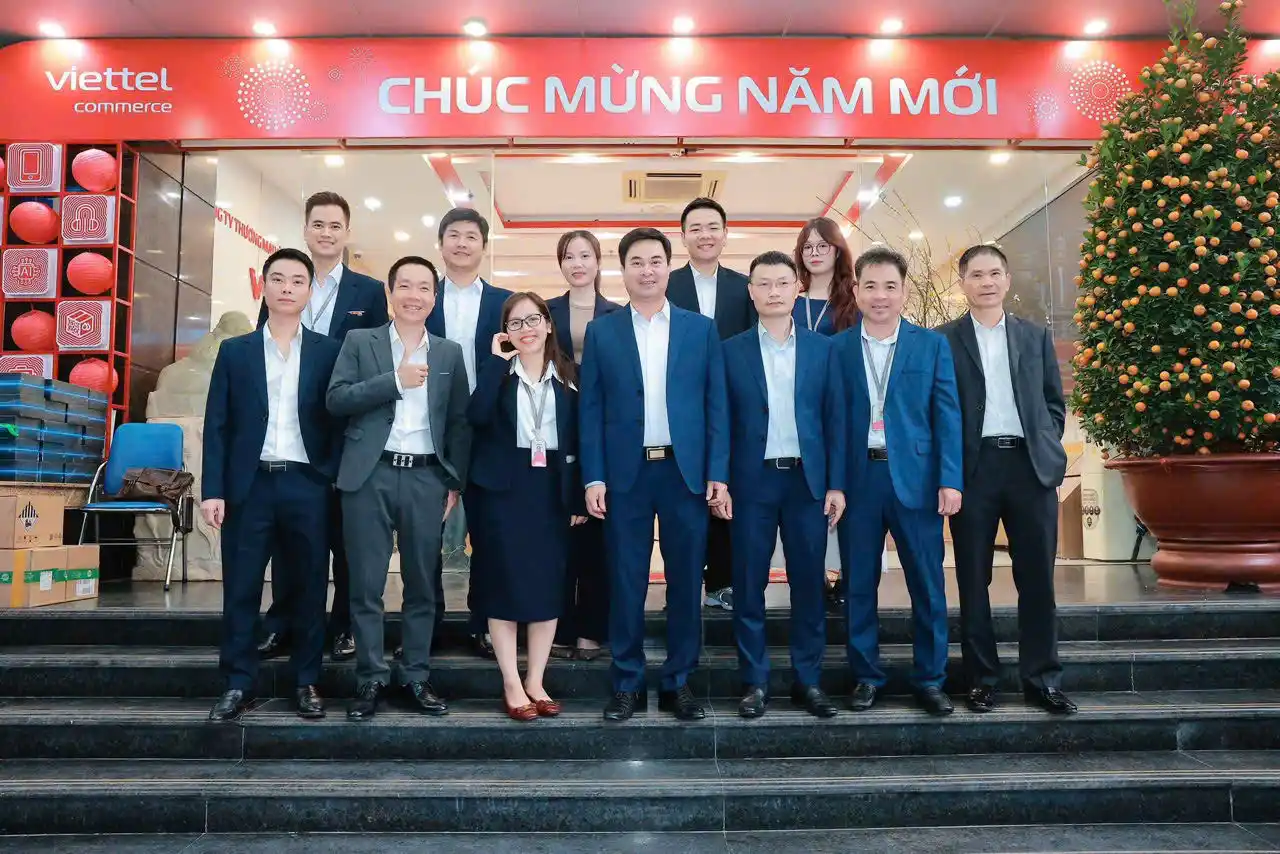
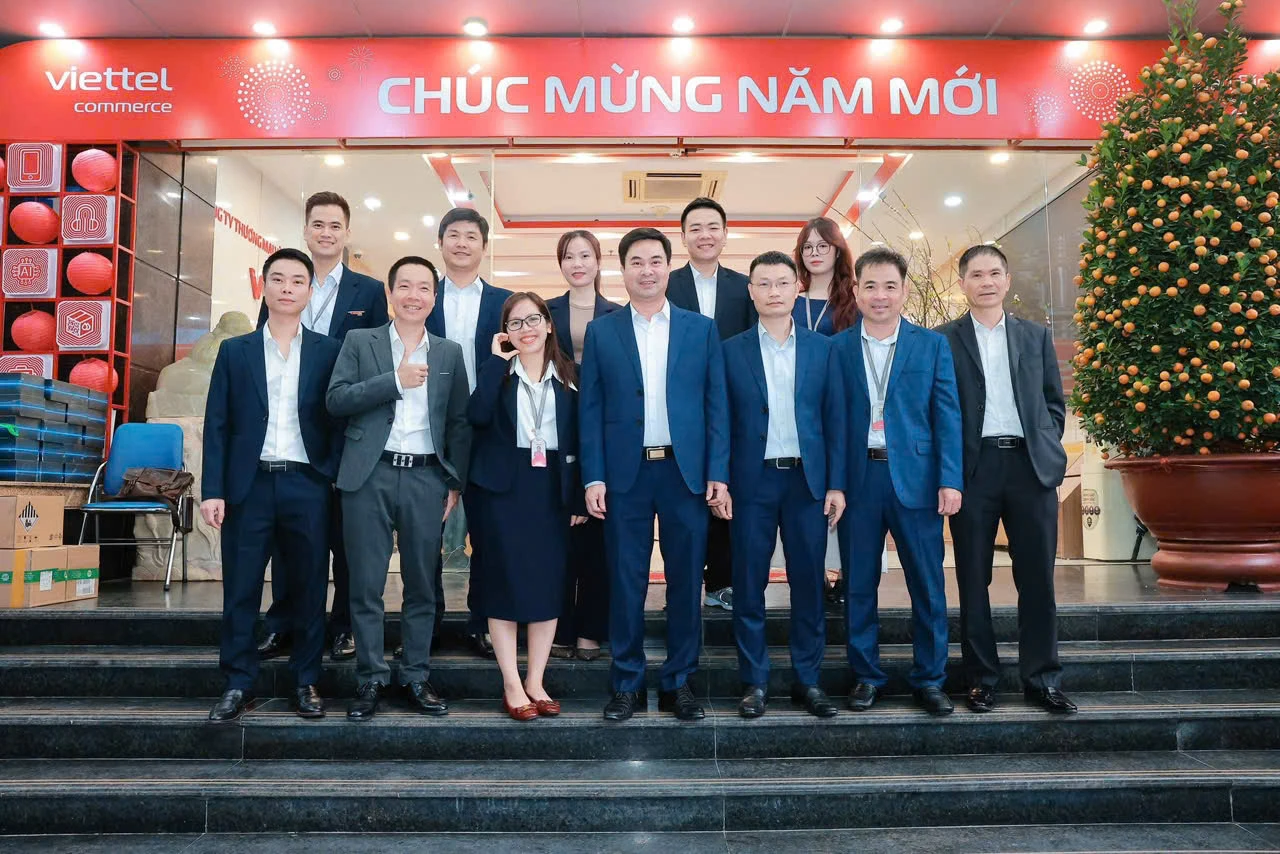
Optimize image quality, fix mobile hydration bugs, and update high-res department photos

diff --git a/frontend/src/app/con-nguoi/components/DepartmentModal.tsx b/frontend/src/app/con-nguoi/components/DepartmentModal.tsx
@@ -55,7 +55,7 @@ const DepartmentModal = ({ dept, onClose, hideComradeLabel }: DepartmentModalPro
                     <div className="flex flex-col gap-4 w-full px-4">
                       {dept.details.mainItems.map((item, i) => (
                         <div key={i} className="relative aspect-[4/3] rounded-2xl overflow-hidden border border-white/10 shadow-lg">
-                          <Image quality={75} src={encodeURI(item.img)} fill sizes="100vw" className="object-cover" alt="" />
+                          <Image unoptimized src={encodeURI(item.img)} fill sizes="100vw" className="object-cover" alt="" />
                         </div>
                       ))}
                     </div>
@@ -63,7 +63,7 @@ const DepartmentModal = ({ dept, onClose, hideComradeLabel }: DepartmentModalPro
                     <div className="flex flex-col gap-4">
                       {dept.details.mainItems.map((item, i) => (
                         <div key={i} className="relative aspect-[16/10] rounded-2xl overflow-hidden border border-white/10">
-                          <Image quality={75} src={encodeURI(item.img)} fill sizes="100vw" className="object-cover" alt="" />
+                          <Image unoptimized src={encodeURI(item.img)} fill sizes="100vw" className="object-cover" alt="" />
                         </div>
                       ))}
                     </div>
@@ -73,7 +73,7 @@ const DepartmentModal = ({ dept, onClose, hideComradeLabel }: DepartmentModalPro
                       {dept.details.leader && (
                         <div className="flex flex-col items-center">
                           <div className="relative w-full aspect-[3/4] rounded-3xl overflow-hidden border border-white/10">
-                            <Image quality={75} src={encodeURI(dept.details.leader.img)} fill sizes="100vw" className="object-cover" style={{ objectPosition: dept.details.leader.objectPosition || 'center' }} alt="leader" />
+                            <Image unoptimized src={encodeURI(dept.details.leader.img)} fill sizes="100vw" className="object-cover" style={{ objectPosition: dept.details.leader.objectPosition || 'center' }} alt="leader" />
                           </div>
                           {!hideComradeLabel && (
                             <div className="mt-4 text-center">
@@ -88,7 +88,7 @@ const DepartmentModal = ({ dept, onClose, hideComradeLabel }: DepartmentModalPro
                       {!dept.details.leader && dept.details.deputies && dept.details.deputies.map((deputy, i) => (
                         <div key={`top-${i}`} className="flex flex-col items-center">
                           <div className="relative w-full aspect-[3/4] rounded-3xl overflow-hidden border border-white/10">
-                            <Image quality={75} src={encodeURI(deputy.img)} fill sizes="100vw" className="object-cover" style={{ objectPosition: deputy.objectPosition || 'center' }} alt="deputy" />
+                            <Image unoptimized src={encodeURI(deputy.img)} fill sizes="100vw" className="object-cover" style={{ objectPosition: deputy.objectPosition || 'center' }} alt="deputy" />
                           </div>
                           {!hideComradeLabel && (
                             <div className="mt-4 text-center">
@@ -103,7 +103,7 @@ const DepartmentModal = ({ dept, onClose, hideComradeLabel }: DepartmentModalPro
                       {dept.details.group && (
                         <div className="flex flex-col items-center">
                           <div className="relative w-full aspect-[16/10] rounded-3xl overflow-hidden border border-white/20">
-                            <Image quality={75} src={encodeURI(dept.details.group.img)} fill sizes="100vw" className="object-cover" alt="group" />
+                            <Image unoptimized src={encodeURI(dept.details.group.img)} fill sizes="100vw" className="object-cover" alt="group" />
                           </div>
                           <div className="mt-4 text-center">
                             <h3 className="text-white font-bold text-lg whitespace-pre-line">{dept.details.group.name}</h3>
@@ -115,7 +115,7 @@ const DepartmentModal = ({ dept, onClose, hideComradeLabel }: DepartmentModalPro
                       {dept.details.leader && dept.details.deputies && dept.details.deputies.map((deputy, i) => (
                         <div key={`bottom-${i}`} className="flex flex-col items-center">
                           <div className="relative w-full aspect-[3/4] rounded-3xl overflow-hidden border border-white/10">
-                            <Image quality={75} src={encodeURI(deputy.img)} fill sizes="100vw" className="object-cover" style={{ objectPosition: deputy.objectPosition || 'center' }} alt="deputy" />
+                            <Image unoptimized src={encodeURI(deputy.img)} fill sizes="100vw" className="object-cover" style={{ objectPosition: deputy.objectPosition || 'center' }} alt="deputy" />
                           </div>
                           {!hideComradeLabel && (
                             <div className="mt-4 text-center">
@@ -142,7 +142,7 @@ const DepartmentModal = ({ dept, onClose, hideComradeLabel }: DepartmentModalPro
                     {page.items.map((item, iIdx) => (
                       <div key={iIdx} className="flex flex-col items-center">
                         <div className="relative w-full aspect-[3/4] rounded-2xl overflow-hidden border border-white/10 shadow-lg">
-                          <Image quality={75} src={encodeURI(item.img)} fill sizes="100vw" className="object-cover" style={{ objectPosition: item.objectPosition || 'center' }} alt="" />
+                          <Image unoptimized src={encodeURI(item.img)} fill sizes="100vw" className="object-cover" style={{ objectPosition: item.objectPosition || 'center' }} alt="" />
                         </div>
                         {!hideComradeLabel && item.name && (
                           <div className="mt-4 text-center">
@@ -165,26 +165,26 @@ const DepartmentModal = ({ dept, onClose, hideComradeLabel }: DepartmentModalPro
                     <div className="grid grid-cols-2 gap-8 h-[min(620px,68vh)] max-w-[1000px] mx-auto w-full">
                       {dept.details.mainItems.slice(0, 4).map((item, i) => (
                         <div key={i} className="relative rounded-[2.5rem] overflow-hidden group border-2 border-white/10 shadow-2xl">
-                          <Image priority quality={75} src={encodeURI(item.img)} fill sizes="500px" className="object-cover transition-transform duration-1000 group-hover:scale-110" style={{ objectPosition: item.objectPosition || 'center', transform: item.scale ? `scale(${item.scale})` : 'none' }} alt="" />
+                          <Image priority unoptimized src={encodeURI(item.img)} fill sizes="500px" className="object-cover transition-transform duration-1000 group-hover:scale-110" style={{ objectPosition: item.objectPosition || 'center', transform: item.scale ? `scale(${item.scale})` : 'none' }} alt="" />
                         </div>
                       ))}
                     </div>
                   ) : dept.details.useCollageStaggered4 && dept.details.mainItems ? (
                     <div className="flex gap-8 w-full h-[min(620px,68vh)] max-w-[1200px] mx-auto">
                       <div className="relative flex-[1.8] rounded-[3rem] overflow-hidden border-2 border-white/10 shadow-2xl group">
-                        <Image priority quality={75} src={encodeURI(dept.details.mainItems[0].img)} fill sizes="800px" className="transition-transform duration-1000 group-hover:scale-105" style={{ objectPosition: dept.details.mainItems[0].objectPosition || 'center', objectFit: dept.details.mainItems[0].objectFit || 'cover', transform: `scale(${dept.details.mainItems[0].scale || 1}) scaleX(${dept.details.mainItems[0].scaleX || 1})` }} alt="" />
+                        <Image priority unoptimized src={encodeURI(dept.details.mainItems[0].img)} fill sizes="800px" className="transition-transform duration-1000 group-hover:scale-105" style={{ objectPosition: dept.details.mainItems[0].objectPosition || 'center', objectFit: dept.details.mainItems[0].objectFit || 'cover', transform: `scale(${dept.details.mainItems[0].scale || 1}) scaleX(${dept.details.mainItems[0].scaleX || 1})` }} alt="" />
                       </div>
                       <div className="flex-[1.2] flex flex-col gap-8">
                         <div className="flex-[0.4] flex gap-8">
                           <div className="relative flex-[0.8] rounded-[2.5rem] overflow-hidden border-2 border-white/10 shadow-xl group">
-                            <Image priority quality={75} src={encodeURI(dept.details.mainItems[1].img)} fill sizes="400px" className="object-cover transition-transform duration-1000 group-hover:scale-105" style={{ objectPosition: dept.details.mainItems[1].objectPosition || 'center', transform: dept.details.mainItems[1].scale ? `scale(${dept.details.mainItems[1].scale})` : 'none' }} alt="" />
+                            <Image priority unoptimized src={encodeURI(dept.details.mainItems[1].img)} fill sizes="400px" className="object-cover transition-transform duration-1000 group-hover:scale-105" style={{ objectPosition: dept.details.mainItems[1].objectPosition || 'center', transform: dept.details.mainItems[1].scale ? `scale(${dept.details.mainItems[1].scale})` : 'none' }} alt="" />
                           </div>
                           <div className="relative flex-[1.2] rounded-[2.5rem] overflow-hidden border-2 border-white/10 shadow-xl group">
-                            <Image priority quality={75} src={encodeURI(dept.details.mainItems[2].img)} fill sizes="600px" className="object-cover transition-transform duration-1000 group-hover:scale-105" style={{ objectPosition: dept.details.mainItems[2].objectPosition || 'center', transform: dept.details.mainItems[2].scale ? `scale(${dept.details.mainItems[2].scale})` : 'none' }} alt="" />
+                            <Image priority unoptimized src={encodeURI(dept.details.mainItems[2].img)} fill sizes="600px" className="object-cover transition-transform duration-1000 group-hover:scale-105" style={{ objectPosition: dept.details.mainItems[2].objectPosition || 'center', transform: dept.details.mainItems[2].scale ? `scale(${dept.details.mainItems[2].scale})` : 'none' }} alt="" />
                           </div>
                         </div>
                         <div className="relative flex-[0.6] rounded-[3rem] overflow-hidden border-2 border-white/10 shadow-xl group">
-                          <Image priority quality={75} src={encodeURI(dept.details.mainItems[3].img)} fill sizes="800px" className="object-cover transition-transform duration-1000 group-hover:scale-105" style={{ objectPosition: dept.details.mainItems[3].objectPosition || 'center', transform: dept.details.mainItems[3].scale ? `scale(${dept.details.mainItems[3].scale})` : 'none' }} alt="" />
+                          <Image priority unoptimized src={encodeURI(dept.details.mainItems[3].img)} fill sizes="800px" className="object-cover transition-transform duration-1000 group-hover:scale-105" style={{ objectPosition: dept.details.mainItems[3].objectPosition || 'center', transform: dept.details.mainItems[3].scale ? `scale(${dept.details.mainItems[3].scale})` : 'none' }} alt="" />
                         </div>
                       </div>
                     </div>
@@ -192,24 +192,24 @@ const DepartmentModal = ({ dept, onClose, hideComradeLabel }: DepartmentModalPro
                     <div className="w-full space-y-2">
                       <div className="flex gap-2 h-[min(300px,32vh)]">
                         <div className="relative flex-[1.6] rounded-[2.5rem] overflow-hidden group border-2 border-white/10 shadow-2xl">
-                          <Image priority quality={75} src={encodeURI(dept.details.mainItems[0].img)} fill sizes="800px" className="object-cover transition-transform duration-1000 group-hover:scale-105" style={{ objectPosition: dept.details.mainItems[0].objectPosition || 'center', transform: dept.details.mainItems[0].scale ? `scale(${dept.details.mainItems[0].scale})` : 'none' }} alt="" />
+                          <Image priority unoptimized src={encodeURI(dept.details.mainItems[0].img)} fill sizes="800px" className="object-cover transition-transform duration-1000 group-hover:scale-105" style={{ objectPosition: dept.details.mainItems[0].objectPosition || 'center', transform: dept.details.mainItems[0].scale ? `scale(${dept.details.mainItems[0].scale})` : 'none' }} alt="" />
                         </div>
                         <div className="relative flex-[0.8] rounded-[2.5rem] overflow-hidden group border-2 border-white/10 shadow-2xl">
-                          <Image priority quality={75} src={encodeURI(dept.details.mainItems[1].img)} fill sizes="400px" className="object-cover transition-transform duration-1000 group-hover:scale-105" style={{ objectPosition: dept.details.mainItems[1].objectPosition || 'center', transform: dept.details.mainItems[1].scale ? `scale(${dept.details.mainItems[1].scale})` : 'none' }} alt="" />
+                          <Image priority unoptimized src={encodeURI(dept.details.mainItems[1].img)} fill sizes="400px" className="object-cover transition-transform duration-1000 group-hover:scale-105" style={{ objectPosition: dept.details.mainItems[1].objectPosition || 'center', transform: dept.details.mainItems[1].scale ? `scale(${dept.details.mainItems[1].scale})` : 'none' }} alt="" />
                         </div>
                         <div className="relative flex-[1.2] rounded-[2.5rem] overflow-hidden group border-2 border-white/10 shadow-2xl">
-                          <Image priority quality={75} src={encodeURI(dept.details.mainItems[2].img)} fill sizes="600px" className="object-cover transition-transform duration-1000 group-hover:scale-105" style={{ objectPosition: dept.details.mainItems[2].objectPosition || 'center', transform: dept.details.mainItems[2].scale ? `scale(${dept.details.mainItems[2].scale})` : 'none' }} alt="" />
+                          <Image priority unoptimized src={encodeURI(dept.details.mainItems[2].img)} fill sizes="600px" className="object-cover transition-transform duration-1000 group-hover:scale-105" style={{ objectPosition: dept.details.mainItems[2].objectPosition || 'center', transform: dept.details.mainItems[2].scale ? `scale(${dept.details.mainItems[2].scale})` : 'none' }} alt="" />
                         </div>
                       </div>
                       <div className="flex gap-2 h-[min(300px,32vh)]">
                         <div className="relative flex-[1] rounded-[2.5rem] overflow-hidden group border-2 border-white/10 shadow-2xl">
-                          <Image priority quality={75} src={encodeURI(dept.details.mainItems[3].img)} fill sizes="500px" className="object-cover transition-transform duration-1000 group-hover:scale-105" style={{ objectPosition: dept.details.mainItems[3].objectPosition || 'center', transform: dept.details.mainItems[3].scale ? `scale(${dept.details.mainItems[3].scale})` : 'none' }} alt="" />
+                          <Image priority unoptimized src={encodeURI(dept.details.mainItems[3].img)} fill sizes="500px" className="object-cover transition-transform duration-1000 group-hover:scale-105" style={{ objectPosition: dept.details.mainItems[3].objectPosition || 'center', transform: dept.details.mainItems[3].scale ? `scale(${dept.details.mainItems[3].scale})` : 'none' }} alt="" />
                         </div>
                         <div className="relative flex-[1.4] rounded-[2.5rem] overflow-hidden group border-2 border-white/10 shadow-2xl">
-                          <Image priority quality={75} src={encodeURI(dept.details.mainItems[4].img)} fill sizes="700px" className="object-cover transition-transform duration-1000 group-hover:scale-105" style={{ objectPosition: dept.details.mainItems[4].objectPosition || 'center', transform: dept.details.mainItems[4].scale ? `scale(${dept.details.mainItems[4].scale})` : 'none' }} alt="" />
+                          <Image priority unoptimized src={encodeURI(dept.details.mainItems[4].img)} fill sizes="700px" className="object-cover transition-transform duration-1000 group-hover:scale-105" style={{ objectPosition: dept.details.mainItems[4].objectPosition || 'center', transform: dept.details.mainItems[4].scale ? `scale(${dept.details.mainItems[4].scale})` : 'none' }} alt="" />
                         </div>
                         <div className="relative flex-[1.4] rounded-[2.5rem] overflow-hidden group border-2 border-white/10 shadow-2xl">
-                          <Image priority quality={75} src={encodeURI(dept.details.mainItems[5].img)} fill sizes="700px" className="object-cover transition-transform duration-1000 group-hover:scale-105" style={{ objectPosition: dept.details.mainItems[5].objectPosition || 'center', transform: dept.details.mainItems[5].scale ? `scale(${dept.details.mainItems[5].scale})` : 'none' }} alt="" />
+                          <Image priority unoptimized src={encodeURI(dept.details.mainItems[5].img)} fill sizes="700px" className="object-cover transition-transform duration-1000 group-hover:scale-105" style={{ objectPosition: dept.details.mainItems[5].objectPosition || 'center', transform: dept.details.mainItems[5].scale ? `scale(${dept.details.mainItems[5].scale})` : 'none' }} alt="" />
                         </div>
                       </div>
                     </div>
@@ -219,7 +219,7 @@ const DepartmentModal = ({ dept, onClose, hideComradeLabel }: DepartmentModalPro
                       {dept.details.leader && (
                         <div className="w-[300px] xl:w-[350px] shrink-0 flex flex-col justify-between group">
                           <div className="relative w-full h-[min(450px,50vh)] xl:h-[min(550px,60vh)] rounded-[2.5rem] overflow-hidden border-2 border-white/10 group-hover:border-[#EE0033]/50 transition-all duration-500 shadow-2xl">
-                            <Image quality={75} src={encodeURI(dept.details.leader.img)} fill sizes="350px" className="object-cover" style={{ objectPosition: dept.details.leader.objectPosition || 'center' }} alt="leader" />
+                            <Image unoptimized src={encodeURI(dept.details.leader.img)} fill sizes="350px" className="object-cover" style={{ objectPosition: dept.details.leader.objectPosition || 'center' }} alt="leader" />
                           </div>
                           {!hideComradeLabel && (
                             <div className="mt-6 text-center">
@@ -234,7 +234,7 @@ const DepartmentModal = ({ dept, onClose, hideComradeLabel }: DepartmentModalPro
                       {dept.details.group && (
                         <div className={`flex flex-col items-center group ${(!dept.details.leader && (!dept.details.deputies || dept.details.deputies.length === 0)) ? 'w-full max-w-[1200px]' : 'flex-1 min-w-[300px]'}`}>
                           <div className={`relative w-full rounded-[3rem] overflow-hidden border-4 border-white/20 group-hover:border-white/40 transition-all duration-500 shadow-2xl ${(!dept.details.leader && (!dept.details.deputies || dept.details.deputies.length === 0)) ? 'h-[min(650px,75vh)]' : 'h-[min(450px,50vh)] xl:h-[min(550px,60vh)]'}`}>
-                            <Image priority quality={75} src={encodeURI(dept.details.group.img)} fill sizes="1200px" className={dept.details.group.objectFit === 'contain' ? 'object-contain' : 'object-cover'} style={{ objectPosition: dept.details.group.objectPosition || 'center' }} alt="group" />
+                            <Image priority unoptimized src={encodeURI(dept.details.group.img)} fill sizes="1200px" className={dept.details.group.objectFit === 'contain' ? 'object-contain' : 'object-cover'} style={{ objectPosition: dept.details.group.objectPosition || 'center' }} alt="group" />
                           </div>
                           <div className="mt-6 text-center">
                             <h3 className="text-white font-bold text-xl tracking-wide whitespace-pre-line">{dept.details.group.name}</h3>
@@ -264,7 +264,7 @@ const DepartmentModal = ({ dept, onClose, hideComradeLabel }: DepartmentModalPro
                                   </div>
                                 )}
                                 <div className={`relative w-full ${photoHeight} rounded-[2.5rem] overflow-hidden border-2 border-white/10 group-hover:border-[#EE0033]/50 transition-all duration-500 shadow-xl`}>
-                                  <Image quality={75} src={encodeURI(deputy.img)} fill sizes="350px" className="object-cover" style={{ objectPosition: deputy.objectPosition || 'center' }} alt="deputy" />
+                                  <Image unoptimized src={encodeURI(deputy.img)} fill sizes="350px" className="object-cover" style={{ objectPosition: deputy.objectPosition || 'center' }} alt="deputy" />
                                 </div>
                                 {!showNameAbove && !hideComradeLabel && (
                                   <div className="mt-4 text-center">
@@ -293,21 +293,21 @@ const DepartmentModal = ({ dept, onClose, hideComradeLabel }: DepartmentModalPro
                           <div className="flex gap-4 w-full h-[min(620px,68vh)] max-w-[1300px]">
                             {/* Left Column: 1 Large Image */}
                             <div className="relative flex-[1.8] rounded-[3rem] overflow-hidden border-2 border-white/10 shadow-2xl group">
-                              <Image quality={75} src={encodeURI(page.items[0].img)} fill sizes="800px" className="object-cover transition-transform duration-1000 group-hover:scale-105" style={{ objectPosition: page.items[0].objectPosition || 'center', transform: `scale(${page.items[0].scale || 1}) scaleX(${page.items[0].scaleX || 1})` }} alt="" />
+                              <Image unoptimized src={encodeURI(page.items[0].img)} fill sizes="800px" className="object-cover transition-transform duration-1000 group-hover:scale-105" style={{ objectPosition: page.items[0].objectPosition || 'center', transform: `scale(${page.items[0].scale || 1}) scaleX(${page.items[0].scaleX || 1})` }} alt="" />
                             </div>
                             
                             {/* Right Column: 3 Images staggered */}
                             <div className="flex-[1.2] flex flex-col gap-4">
                               <div className="flex-[0.4] flex gap-4">
                                 <div className="relative flex-[0.8] rounded-[2.5rem] overflow-hidden border-2 border-white/10 shadow-xl group">
-                                  <Image quality={75} src={encodeURI(page.items[1].img)} fill sizes="400px" className="object-cover transition-transform duration-1000 group-hover:scale-105" style={{ objectPosition: page.items[1].objectPosition || 'center', transform: page.items[1].scale ? `scale(${page.items[1].scale})` : 'none' }} alt="" />
+                                  <Image unoptimized src={encodeURI(page.items[1].img)} fill sizes="400px" className="object-cover transition-transform duration-1000 group-hover:scale-105" style={{ objectPosition: page.items[1].objectPosition || 'center', transform: page.items[1].scale ? `scale(${page.items[1].scale})` : 'none' }} alt="" />
                                 </div>
                                 <div className="relative flex-[1.2] rounded-[2.5rem] overflow-hidden border-2 border-white/10 shadow-xl group">
-                                  <Image quality={75} src={encodeURI(page.items[2].img)} fill sizes="600px" className="object-cover transition-transform duration-1000 group-hover:scale-105" style={{ objectPosition: page.items[2].objectPosition || 'center', transform: page.items[2].scale ? `scale(${page.items[2].scale})` : 'none' }} alt="" />
+                                  <Image unoptimized src={encodeURI(page.items[2].img)} fill sizes="600px" className="object-cover transition-transform duration-1000 group-hover:scale-105" style={{ objectPosition: page.items[2].objectPosition || 'center', transform: page.items[2].scale ? `scale(${page.items[2].scale})` : 'none' }} alt="" />
                                 </div>
                               </div>
                               <div className="relative flex-[0.6] rounded-[3rem] overflow-hidden border-2 border-white/10 shadow-xl group">
-                                <Image quality={75} src={encodeURI(page.items[3].img)} fill sizes="800px" className="object-cover transition-transform duration-1000 group-hover:scale-105" style={{ objectPosition: page.items[3].objectPosition || 'center', transform: page.items[3].scale ? `scale(${page.items[3].scale})` : 'none' }} alt="" />
+                                <Image unoptimized src={encodeURI(page.items[3].img)} fill sizes="800px" className="object-cover transition-transform duration-1000 group-hover:scale-105" style={{ objectPosition: page.items[3].objectPosition || 'center', transform: page.items[3].scale ? `scale(${page.items[3].scale})` : 'none' }} alt="" />
                               </div>
                             </div>
                           </div>
@@ -315,16 +315,16 @@ const DepartmentModal = ({ dept, onClose, hideComradeLabel }: DepartmentModalPro
                           <div className="flex gap-8 w-full h-[min(620px,68vh)] max-w-[1200px]">
                             {/* Left Column: 1 Large Image */}
                             <div className="relative flex-[1.4] rounded-[3rem] overflow-hidden border-2 border-white/10 shadow-2xl group">
-                              <Image quality={75} src={encodeURI(page.items[0].img)} fill sizes="800px" className="object-cover transition-transform duration-1000 group-hover:scale-105" style={{ transform: page.items[0].scale ? `scale(${page.items[0].scale})` : 'none' }} alt="" />
+                              <Image unoptimized src={encodeURI(page.items[0].img)} fill sizes="800px" className="object-cover transition-transform duration-1000 group-hover:scale-105" style={{ transform: page.items[0].scale ? `scale(${page.items[0].scale})` : 'none' }} alt="" />
                             </div>
                             
                             {/* Right Column: 2 Images stacked */}
                             <div className="flex-[0.6] flex flex-col gap-8">
                               <div className="relative flex-1 rounded-[2.5rem] overflow-hidden border-2 border-white/10 shadow-xl group">
-                                <Image quality={75} src={encodeURI(page.items[1].img)} fill sizes="400px" className="object-cover transition-transform duration-1000 group-hover:scale-105" style={{ transform: page.items[1].scale ? `scale(${page.items[1].scale})` : 'none' }} alt="" />
+                                <Image unoptimized src={encodeURI(page.items[1].img)} fill sizes="400px" className="object-cover transition-transform duration-1000 group-hover:scale-105" style={{ transform: page.items[1].scale ? `scale(${page.items[1].scale})` : 'none' }} alt="" />
                               </div>
                               <div className="relative flex-1 rounded-[2.5rem] overflow-hidden border-2 border-white/10 shadow-xl group">
-                                <Image quality={75} src={encodeURI(page.items[2].img)} fill sizes="400px" className="object-cover transition-transform duration-1000 group-hover:scale-105" style={{ transform: page.items[2].scale ? `scale(${page.items[2].scale})` : 'none' }} alt="" />
+                                <Image unoptimized src={encodeURI(page.items[2].img)} fill sizes="400px" className="object-cover transition-transform duration-1000 group-hover:scale-105" style={{ transform: page.items[2].scale ? `scale(${page.items[2].scale})` : 'none' }} alt="" />
                               </div>
                             </div>
                           </div>
@@ -332,7 +332,7 @@ const DepartmentModal = ({ dept, onClose, hideComradeLabel }: DepartmentModalPro
                           <div className="grid grid-cols-2 gap-8 h-[min(620px,68vh)] max-w-[1000px] mx-auto w-full">
                             {page.items.slice(0, 4).map((item, i) => (
                               <div key={i} className="relative rounded-[2.5rem] overflow-hidden group border-2 border-white/10 shadow-2xl">
-                                <Image quality={75} src={encodeURI(item.img)} fill sizes="500px" className="object-cover transition-transform duration-1000 group-hover:scale-110" style={{ objectPosition: item.objectPosition || 'center', transform: item.scale ? `scale(${item.scale})` : 'none' }} alt="" />
+                                <Image unoptimized src={encodeURI(item.img)} fill sizes="500px" className="object-cover transition-transform duration-1000 group-hover:scale-110" style={{ objectPosition: item.objectPosition || 'center', transform: item.scale ? `scale(${item.scale})` : 'none' }} alt="" />
                               </div>
                             ))}
                           </div>
@@ -341,7 +341,7 @@ const DepartmentModal = ({ dept, onClose, hideComradeLabel }: DepartmentModalPro
                             {page.items.map((item, i) => (
                               <div key={i} className="flex flex-col items-center group">
                                 <div className="relative w-full aspect-[3/4] rounded-[2rem] overflow-hidden border-2 border-white/10 group-hover:border-[#EE0033]/50 transition-all duration-500">
-                                  <Image quality={75} src={encodeURI(item.img)} fill sizes="400px" className="object-cover" style={{ objectPosition: item.objectPosition || 'center' }} alt="" />
+                                  <Image unoptimized src={encodeURI(item.img)} fill sizes="400px" className="object-cover" style={{ objectPosition: item.objectPosition || 'center' }} alt="" />
                                 </div>
                                 {!hideComradeLabel && item.name && (
                                   <div className="mt-6 text-center">

diff --git a/frontend/src/components/journey/JourneyGrid.tsx b/frontend/src/components/journey/JourneyGrid.tsx
@@ -14,7 +14,18 @@ function cn(...inputs: ClassValue[]) {
 
 export const JourneyGrid: React.FC = () => {
   const [isMobile, setIsMobile] = useState(false);
-  const itemsPerPage = isMobile ? 1 : 6;
+  const [mounted, setMounted] = useState(false);
+  
+  React.useEffect(() => {
+    setMounted(true);
+    const checkMobile = () => setIsMobile(window.innerWidth < 768);
+    checkMobile();
+    window.addEventListener('resize', checkMobile);
+    return () => window.removeEventListener('resize', checkMobile);
+  }, []);
+
+  const isMobileView = mounted && isMobile;
+  const itemsPerPage = isMobileView ? 1 : 6;
   const totalPages = Math.ceil(journeyData.length / itemsPerPage);
   
   const [[page, direction], setPage] = useState([0, 0]);
@@ -22,13 +33,6 @@ export const JourneyGrid: React.FC = () => {
   const [isModalOpen, setIsModalOpen] = useState(false);
   const [touchStart, setTouchStart] = React.useState<{x: number, y: number} | null>(null);
   const containerRef = React.useRef<HTMLDivElement>(null);
-
-  React.useEffect(() => {
-    const checkMobile = () => setIsMobile(window.innerWidth < 768);
-    checkMobile();
-    window.addEventListener('resize', checkMobile);
-    return () => window.removeEventListener('resize', checkMobile);
-  }, []);
 
   // Radical fix for vertical slip
   React.useEffect(() => {
@@ -155,7 +159,7 @@ export const JourneyGrid: React.FC = () => {
     <div 
       ref={containerRef}
       className="w-full relative pt-6 pb-6 flex flex-col items-center overflow-hidden"
-      style={{ touchAction: isMobile ? 'pan-y' : 'auto' }}
+      style={{ touchAction: isMobileView ? 'pan-y' : 'auto' }}
       onTouchStart={handleTouchStart}
       onTouchMove={handleTouchMove}
       onTouchEnd={handleTouchEnd}
@@ -210,7 +214,7 @@ export const JourneyGrid: React.FC = () => {
         milestone={selectedMilestone}
       />
 
-      {isMobile ? (
+      {isMobileView ? (
         <div className="mt-8 flex flex-col items-center gap-6 w-full">
           {/* Dots on top */}
           <div className="flex flex-nowrap justify-center gap-1.5 items-center max-w-full px-4">

diff --git a/frontend/src/app/con-nguoi/components/DepartmentsSection.tsx b/frontend/src/app/con-nguoi/components/DepartmentsSection.tsx
@@ -155,11 +155,11 @@ const DepartmentsSection = ({
                                 transform: dept.gridScale ? `scale(${dept.gridScale})` : (dept.name.includes('Kế hoạch') ? 'scale(1.1)' : 'none')
                               }}
                               alt={dept.name}
-                              quality={dept.name.includes('Công nghệ Thông tin') ? 100 : 75}
+                              unoptimized
                               priority={pageIdx === 0}
                               onError={(e) => e.currentTarget.src = "/images/homepage/logo-viettel-store.webp"}
                             />
-                            <div className="absolute inset-0 bg-gradient-to-t from-black/60 via-black/10 to-transparent flex items-end p-6 md:p-8">
+                            <div className="absolute inset-0 bg-gradient-to-t from-black/35 via-black/5 to-transparent flex items-end p-6 md:p-8">
                               <div className="text-white">
                                 <h3 className="text-sm md:text-base font-bold leading-tight drop-shadow-md whitespace-pre-line">
                                   {dept.name}

diff --git a/frontend/src/app/hanh-trinh/page.tsx b/frontend/src/app/hanh-trinh/page.tsx
@@ -10,12 +10,10 @@ const roboto = Roboto({
   display: 'swap',
 });
 import { ChevronLeft, ChevronRight } from "lucide-react";
-import dynamic from "next/dynamic";
+import { TrophyAwardsSection } from "@/components/journey/TrophyAwardsSection";
 import { AboutUsRedSection } from "@/components/journey/AboutUsRedSection";
 import { ProudJourneySection } from "@/components/journey/ProudJourneySection";
-
-const TrophyAwardsSection = dynamic(() => import("@/components/journey/TrophyAwardsSection").then(mod => mod.TrophyAwardsSection), { ssr: false });
-const JourneySection = dynamic(() => import("@/components/journey/JourneySection").then(mod => mod.JourneySection), { ssr: false });
+import { JourneySection } from "@/components/journey/JourneySection";
 import { RipplePattern } from "@/components/journey/RipplePattern";
 import { motion } from "framer-motion";
 
